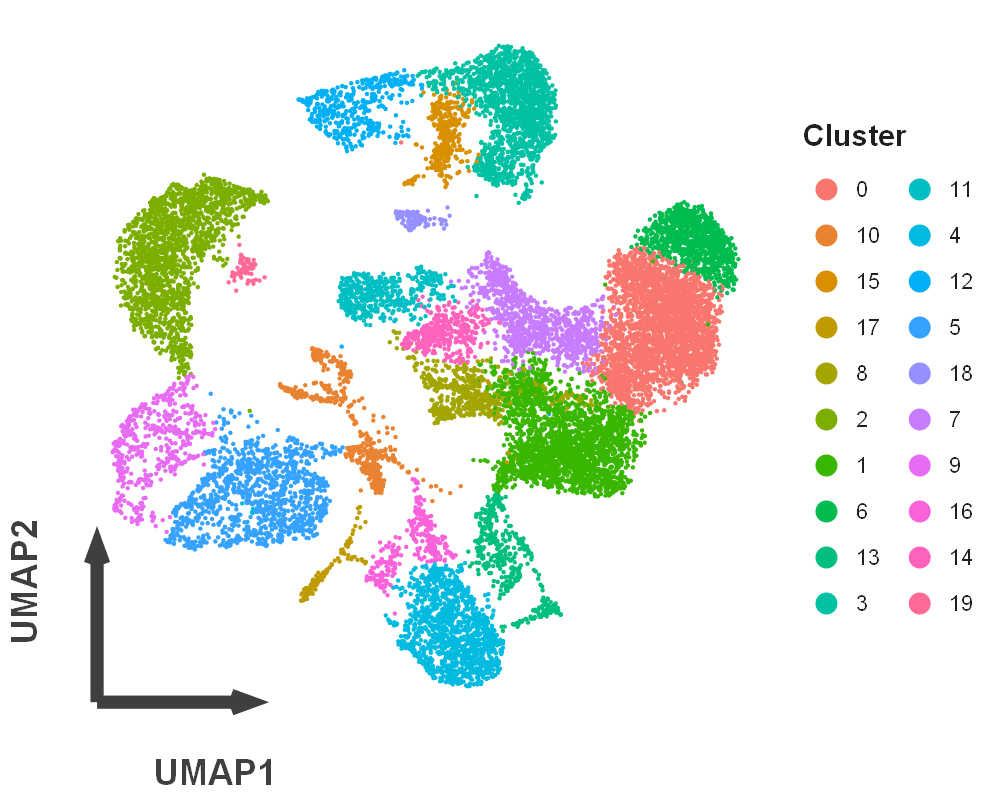
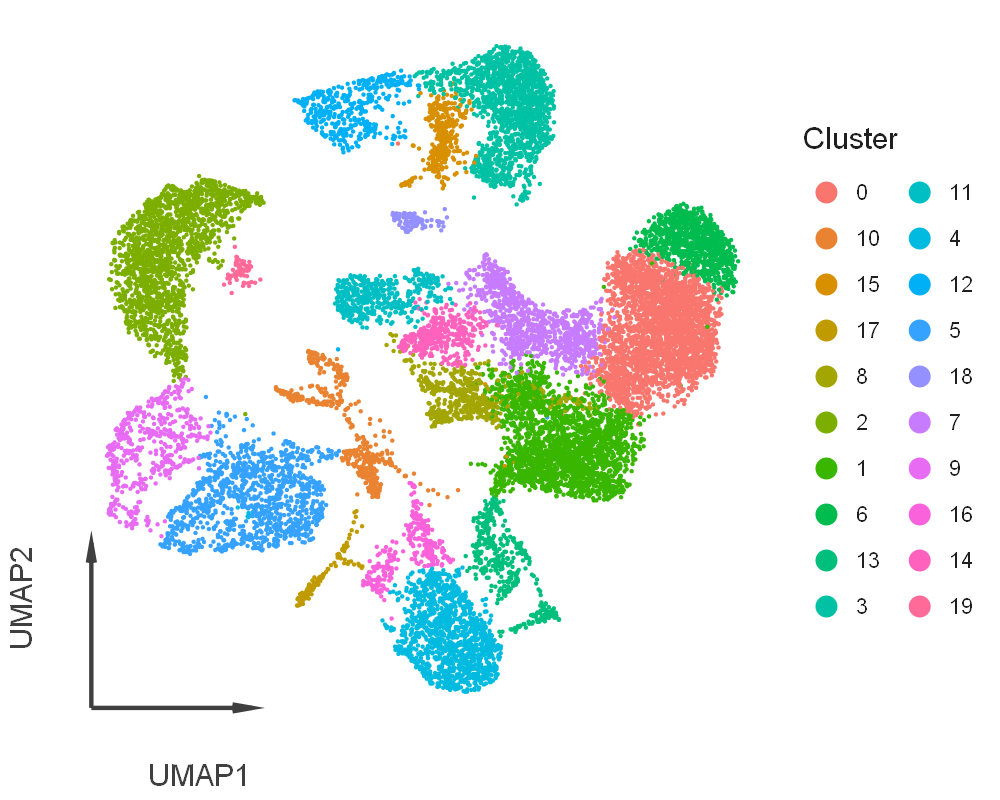
improve dim plots

diff --git a/cellestial/single/core/dimensional.py b/cellestial/single/core/dimensional.py
@@ -2,7 +2,7 @@ from __future__ import annotations
 
 from collections.abc import Iterable
 from math import ceil
-from typing import TYPE_CHECKING, Literal
+from typing import TYPE_CHECKING, Any, Literal
 
 # Core scverse libraries
 import polars as pl
@@ -40,36 +40,49 @@ def dimensional(
     *,
     dimensions: Literal["umap", "pca", "tsne"] = "umap",
     size: float = 0.8,
-    point_shape: int = 16,
-    interactive: bool = False,  # used by interactive decorator
+    interactive: bool = False,
     cluster_name: str = "Cluster",
-    barcode_name: str = "Barcode",
+    barcode_name: str = "CellID",
     color_low: str = "#e6e6e6",
     color_high: str = "#377eb8",
     axis_type: Literal["axis", "arrow"] | None = None,
     arrow_length: float = 0.25,
-    arrow_size: float = 3,
+    arrow_size: float = 1,
     arrow_color: str = "#3f3f3f",
-    arrow_angle: float = 20,
+    arrow_angle: float = 10,
     show_tooltips: bool = True,
     add_tooltips: list[str] | tuple[str] | Iterable[str] | None = None,
     custom_tooltips: list[str] | tuple[str] | Iterable[str] | None = None,
+    **point_kwargs: dict[str, Any],
 ) -> PlotSpec:
     # Handling Data tpyes
     if not isinstance(data, AnnData):
         msg = "data must be an `AnnData` object"
         raise TypeError(msg)
 
-    # get the coordinates of the cells in the dimension reduced space
-
     # only take the first two dimensions (pca comes with more dimensions)
     frame = pl.from_numpy(
         data.obsm[f"X_{dimensions}"][:, :2], schema=[f"{dimensions}1", f"{dimensions}2"]
     ).with_columns(pl.Series(barcode_name, data.obs_names))
 
+    # handle point_kwargs
+    if point_kwargs is None:
+        point_kwargs = {}
+    else:
+        if "size" in point_kwargs:
+            size = point_kwargs.get("size")
+            msg = "use `size = value` instead of adding `'size' : 'value'` to `point_kwargs`\n"
+            msg += f"size args will overwritten by the value `{size}` in the point_kwargs, "
+            raise Warning(msg)
+        if "tooltips" in point_kwargs:
+            msg = "use tooltips args within the function instead of adding `'tooltips' : 'value'` to `point_kwargs`\n"
+            raise KeyError(msg)
 
     # handle tooltips
-    base_tooltips = [barcode_name, key]
+    if key in ["leiden", "louvain"]:
+        base_tooltips = [barcode_name, cluster_name]
+    else:
+        base_tooltips = [barcode_name, key]
     if not show_tooltips:
         tooltips = "none"  # for letsplot, this removes the tooltips
     else:
@@ -79,6 +92,9 @@ def dimensional(
             tooltips = base_tooltips + list(add_tooltips)
         else:
             tooltips = base_tooltips
+
+
+    # get the coordinates of the cells in the dimension reduced space
     # -------------------------- IF IT IS A CLUSTER --------------------------
     if key in ["leiden", "louvain"]:  # if it is a clustering
         # update the key column name if it is a cluster
@@ -93,6 +109,7 @@ def dimensional(
                     aes(x=f"{dimensions}1", y=f"{dimensions}2", color=cluster_name),
                     size=size,
                     tooltips=layer_tooltips(tooltips),
+                    **point_kwargs,
                 )
                 + labs(
                     x=f"{dimensions}1".upper(), y=f"{dimensions}2".upper()
@@ -124,7 +141,7 @@ def dimensional(
                 aes(x=f"{dimensions}1", y=f"{dimensions}2", color=key),
                 size=size,
                 tooltips=layer_tooltips(tooltips),
-                shape=point_shape,
+                **point_kwargs,
             )
             + scale_color_continuous(low=color_low, high=color_high)
             + labs(
@@ -164,28 +181,26 @@ def expression(
     *,
     dimensions: Literal["umap", "pca", "tsne"] = "umap",
     size: float = 0.8,
-    point_shape: int = 16,
-    interactive: bool = False,  # used by interactive decorator
+    interactive: bool = False,
     cluster_name: str = "Cluster",
     cluster_type: Literal["leiden", "louvain"] | None = None,
-    barcode_name: str = "Barcode",
+    barcode_name: str = "CellID",
     color_low: str = "#e6e6e6",
     color_high: str = "#377eb8",
     axis_type: Literal["axis", "arrow"] | None = "arrow",
     arrow_length: float = 0.25,
-    arrow_size: float = 3,
+    arrow_size: float = 1,
     arrow_color: str = "#3f3f3f",
-    arrow_angle: float = 20,
+    arrow_angle: float = 10,
     show_tooltips: bool = True,
     add_tooltips: list[str] | tuple[str] | Iterable[str] | None = None,
     custom_tooltips: list[str] | tuple[str] | Iterable[str] | None = None,
+    **point_kwargs: dict[str, Any],
 ) -> PlotSpec:
     # Handling Data tpyes
     if not isinstance(data, AnnData):
         msg = "data must be an `AnnData` object"
         raise TypeError(msg)
-
-    # get the coordinates of the cells in the dimension reduced space
 
     # only take the first two dimensions (pca comes with more dimensions)
     frame = pl.from_numpy(
@@ -198,7 +213,18 @@ def expression(
         else:
             msg = f"'{cluster_type}' is not a valid cluster type"
             raise ValueError(msg)
-
+    # handle point_kwargs
+    if point_kwargs is None:
+        point_kwargs = {}
+    else:
+        if "size" in point_kwargs:
+            size = point_kwargs.get("size")
+            msg = "use `size = value` instead of adding `'size' : 'value'` to `point_kwargs`\n"
+            msg += f"size args will overwritten by the value `{size}` in the point_kwargs, "
+            raise Warning(msg)
+        if "tooltips" in point_kwargs:
+            msg = "use tooltips args within the function instead of adding `'tooltips' : 'value'` to `point_kwargs`\n"
+            raise KeyError(msg)
     # handle tooltips
     base_tooltips = [barcode_name, gene]
     if not show_tooltips:
@@ -210,6 +236,7 @@ def expression(
             tooltips = base_tooltips + list(add_tooltips)
         else:
             tooltips = base_tooltips
+    # get the coordinates of the cells in the dimension reduced space
     # -------------------------- IF IT IS A GENE --------------------------
     if gene in data.var_names:  # if it is a gene
         # adata.X is a sparse matrix, axis0 is cells, axis1 is genes
@@ -231,7 +258,7 @@ def expression(
                 aes(x=f"{dimensions}1", y=f"{dimensions}2", color=gene),
                 size=size,
                 tooltips=layer_tooltips(tooltips),
-                shape=point_shape,
+                **point_kwargs,
             )
             + scale_color_continuous(low=color_low, high=color_high)
             + labs(

diff --git a/cellestial/single/core/subdimensional.py b/cellestial/single/core/subdimensional.py
@@ -1,7 +1,7 @@
 from __future__ import annotations
 
 from collections.abc import Iterable
-from typing import TYPE_CHECKING, Literal
+from typing import TYPE_CHECKING, Any, Literal
 
 from cellestial.single.core.dimensional import dimensional
 
@@ -15,27 +15,26 @@ def umap(
     key: Literal["leiden", "louvain"] | str = "leiden",
     *,
     size: float = 0.8,
-    point_shape: int = 16,
-    interactive: bool = False,  # used by interactive decorator
+    interactive: bool = False,
     cluster_name: str = "Cluster",
-    barcode_name: str = "Barcode",
+    barcode_name: str = "CellID",
     color_low: str = "#e6e6e6",
     color_high: str = "#377eb8",
     axis_type: Literal["axis", "arrow"] | None = None,
     arrow_length: float = 0.25,
-    arrow_size: float = 3,
+    arrow_size: float = 1,
     arrow_color: str = "#3f3f3f",
-    arrow_angle: float = 20,
+    arrow_angle: float = 10,
     show_tooltips: bool = True,
     add_tooltips: list[str] | tuple[str] | Iterable[str] | None = None,
     custom_tooltips: list[str] | tuple[str] | Iterable[str] | None = None,
+    **point_kwargs: dict[str, Any],
 ) -> PlotSpec:
     return dimensional(
         data=data,
         key=key,
         dimensions="umap",
         size=size,
-        point_shape=point_shape,
         interactive=interactive,
         cluster_name=cluster_name,
         barcode_name=barcode_name,
@@ -47,8 +46,9 @@ def umap(
         arrow_color=arrow_color,
         arrow_angle=arrow_angle,
         show_tooltips=show_tooltips,
-        add_tooltips=add_tooltips, 
+        add_tooltips=add_tooltips,
         custom_tooltips=custom_tooltips,
+        **point_kwargs,
     )
 
 
@@ -57,27 +57,26 @@ def tsne(
     key: Literal["leiden", "louvain"] | str = "leiden",
     *,
     size: float = 0.8,
-    point_shape: int = 16,
-    interactive: bool = False,  # used by interactive decorator
+    interactive: bool = False,
     cluster_name: str = "Cluster",
-    barcode_name: str = "Barcode",
+    barcode_name: str = "CellID",
     color_low: str = "#e6e6e6",
     color_high: str = "#377eb8",
     axis_type: Literal["axis", "arrow"] | None = None,
     arrow_length: float = 0.25,
-    arrow_size: float = 3,
+    arrow_size: float = 1,
     arrow_color: str = "#3f3f3f",
-    arrow_angle: float = 20,
+    arrow_angle: float = 10,
     show_tooltips: bool = True,
     add_tooltips: list[str] | tuple[str] | Iterable[str] | None = None,
     custom_tooltips: list[str] | tuple[str] | Iterable[str] | None = None,
+    **point_kwargs: dict[str, Any],
 ) -> PlotSpec:
     return dimensional(
         data=data,
         key=key,
         dimensions="tsne",
         size=size,
-        point_shape=point_shape,
         interactive=interactive,
         cluster_name=cluster_name,
         barcode_name=barcode_name,
@@ -89,8 +88,9 @@ def tsne(
         arrow_color=arrow_color,
         arrow_angle=arrow_angle,
         show_tooltips=show_tooltips,
-        add_tooltips=add_tooltips, 
+        add_tooltips=add_tooltips,
         custom_tooltips=custom_tooltips,
+        **point_kwargs,
     )
 
 
@@ -99,27 +99,26 @@ def pca(
     key: Literal["leiden", "louvain"] | str = "leiden",
     *,
     size: float = 0.8,
-    point_shape: int = 16,
-    interactive: bool = False,  # used by interactive decorator
+    interactive: bool = False,
     cluster_name: str = "Cluster",
-    barcode_name: str = "Barcode",
+    barcode_name: str = "CellID",
     color_low: str = "#e6e6e6",
     color_high: str = "#377eb8",
     axis_type: Literal["axis", "arrow"] | None = None,
     arrow_length: float = 0.25,
-    arrow_size: float = 3,
+    arrow_size: float = 1,
     arrow_color: str = "#3f3f3f",
-    arrow_angle: float = 20,
+    arrow_angle: float = 10,
     show_tooltips: bool = True,
     add_tooltips: list[str] | tuple[str] | Iterable[str] | None = None,
     custom_tooltips: list[str] | tuple[str] | Iterable[str] | None = None,
+    **point_kwargs: dict[str, Any],
 ) -> PlotSpec:
     return dimensional(
         data=data,
         key=key,
         dimensions="pca",
         size=size,
-        point_shape=point_shape,
         interactive=interactive,
         cluster_name=cluster_name,
         barcode_name=barcode_name,
@@ -131,6 +130,7 @@ def pca(
         arrow_color=arrow_color,
         arrow_angle=arrow_angle,
         show_tooltips=show_tooltips,
-        add_tooltips=add_tooltips, 
+        add_tooltips=add_tooltips,
         custom_tooltips=custom_tooltips,
+        **point_kwargs,
     )

diff --git a/TODO.md b/TODO.md
@@ -23,3 +23,9 @@
 ### Boxplot:
   - Boxplot
   - Boxplots
+
+
+additional dicts for non-customizable parts of the plots:
+  - aes
+  - geoms
+  - grids
